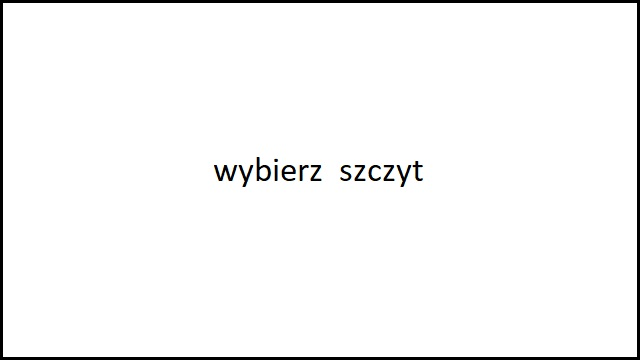
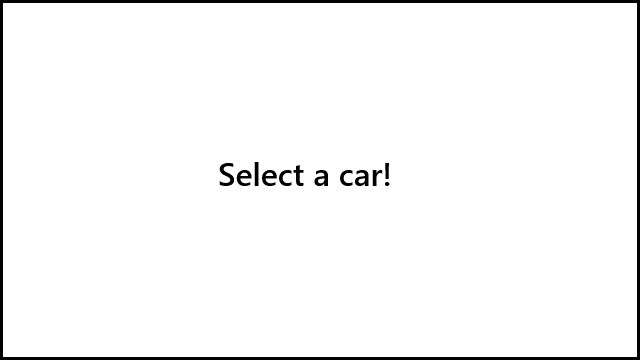
Add files via upload

Changed region(s): [[0.3125, 0.4278, 0.6562, 0.5194]]

diff --git a/cars.html b/cars.html
@@ -1,0 +1,59 @@
+<!DOCTYPE html>
+<html lang="pl">
+<head>
+    <meta charset="UTF-8">
+    <meta name="viewport" content="width=device-width, initial-scale=1.0">
+    <title>Mountain Peaks</title>
+    <link rel="stylesheet" href="cars.css">
+    
+</head>
+<body>
+    <h1>"Pickup" trucks</h1>
+
+    <select id="auta">
+        <option value="wybierz">Select a pickup truck!</option>
+        <option value="ford">Ford</option>
+        <option value="gmc">GMC</option>
+        <option value="ram">RAM</option>
+        <option value="silverado">Chevrolet</option>
+    </select>
+    <label>
+    <input type="checkbox" id="checkbox"> I accept the terms
+    </label>
+    <div id="info"></div>
+    <div id="kontenery">
+        <div id="wiekszy"></div>
+        <div id="mniejszy"></div>
+    </div>
+<a href="index.html" id="back-btn"><- Back to Portfolio</a>
+
+    <script>
+        const auta = document.getElementById('auta');
+        const info = document.getElementById('info');
+        const checkbox = document.getElementById('checkbox');
+        const wiekszy = document.getElementById('wiekszy');
+        const mniejszy = document.getElementById('mniejszy');
+
+
+        auta.addEventListener('change', function(){
+            wiekszy.innerHTML = `<h1>Large image</h1> <img src="${auta.value}_duze.jpg" alt="auta">`,
+            mniejszy.innerHTML = `<h1>Small image</h1> <img src="${auta.value}_male.jpg" alt="auta">`
+        })
+       
+
+
+        checkbox.addEventListener('change', function(){
+            if (checkbox.checked){
+                info.innerHTML = "<h2>Remember! Read the regulations</h2>"
+            } else {
+                info.innerHTML = "";
+            }
+        })
+
+
+
+
+
+    </script>
+</body>
+</html>

diff --git a/cars.css b/cars.css
@@ -1,0 +1,39 @@
+body{
+    background-color: #ccc;
+    margin: 0px;
+    padding: 20px;
+}
+
+#kontenery{
+    margin-top: 20px;
+    display: flex;
+    justify-content: space-between;
+}
+
+#wiekszy{
+    width: 60%;
+}
+
+#mniejszy{
+    width: 30%;
+}
+
+img{
+    width: 100%;
+}
+
+#info{
+    margin-top: 20px;
+}
+    #back-btn {
+    padding: 10px;
+    margin: 10px;
+    background-color: #2c3e50;
+    color: white;
+    border: none;
+    cursor: pointer;
+    text-decoration: none;
+    display: inline-block;
+    border-radius: 5px;
+    font-family: Arial, sans-serif;
+}